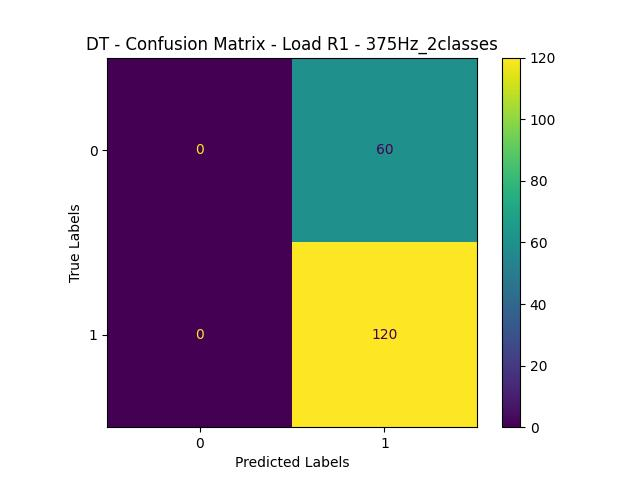
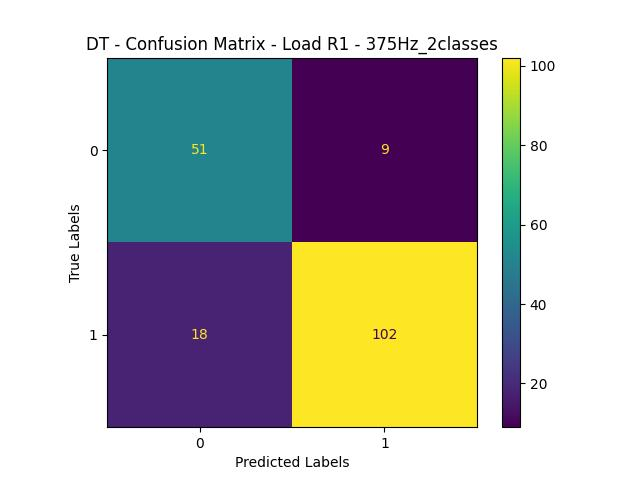
update

diff --git a/optimizers.py b/optimizers.py
@@ -28,15 +28,15 @@ label_encoder = LabelEncoder()
 fontsize = 12
 
 max_evals = 10
-n_optimization = 5000
+n_optimizations = 500
 path_res = 'results_curr'
 path_input = 'dataframes_curr'
 os.makedirs(path_res, exist_ok=True)
 
 
-def objective(params, x_opt, y_opt, alg, n_classes):
+def select_clf(alg, params, n_classes):
     if alg == 'DT':
-        params['max_depth'] = int(params['max_depth'])
+        # params['max_depth'] = int(params['max_depth'])
         clf = DecisionTreeClassifier(**params, random_state=0)
     elif alg == 'KNN':
         clf = KNeighborsClassifier(**params)
@@ -45,6 +45,12 @@ def objective(params, x_opt, y_opt, alg, n_classes):
             clf = LogisticRegression(**params, multi_class='multinomial', random_state=0)
         else:
             clf = LogisticRegression(**params, random_state=0)
+
+    return clf
+
+
+def objective(params, x_opt, y_opt, alg, n_classes):
+    clf = select_clf(alg, params, n_classes)
 
     kf = model_selection.StratifiedKFold(n_splits=10)
 
@@ -72,15 +78,16 @@ loads = ['R1', 'R2', 'R3',
          'R2_T1', 'R2_T2', 'R2_T3',
          'R3_T1', 'R3_T2', 'R3_T3']
 
-params_space = [
+params_spaces = [
     {
-        'max_depth': hp.quniform('max_depth', 1, 100, 1),
-        'max_features': hp.uniform('max_features', 0.01, 1),
-        'min_samples_split': hp.uniform('min_samples_split', 0.0, 1),
+        'max_depth': hp.randint('max_depth', 3, 100),
+        'max_features': hp.uniform('max_features', 0.001, 1),
+        'min_samples_split': hp.uniform('min_samples_split', 0.0001, 1),
         'min_weight_fraction_leaf': hp.uniform('min_weight_fraction_leaf', 0.0, 0.5),
-        'min_samples_leaf': hp.uniform('min_samples_leaf', 0.0, 1)
+        # 'min_samples_leaf': hp.uniform('min_samples_leaf', 0.0, 0.5),
+        # 'max_leaf_nodes': hp.randint('max_leaf_nodes', 20, 120)
     }, {
-        'n_neighbors': hp.randint('n_neighbors', 1, 100),
+        'n_neighbors': hp.randint('n_neighbors', 1, 60),
         'leaf_size': hp.randint('leaf_size', 3, 100),
         'p': hp.randint('p', 1, 5)
     }, {
@@ -152,26 +159,17 @@ for alg in algorithms:
                 acc_val_on_max_test = 0
                 best_params = {}
 
-                loop_opt = tqdm(np.arange(n_optimization))
-                for _ in loop_opt:
+                loop_opt = tqdm(np.arange(n_optimizations))
+                for iteration in loop_opt:
                     trials = Trials()
                     f = partial(objective, x_opt=X_val, y_opt=y_val, alg=alg, n_classes=n_classes)
-                    params = fmin(f, params_space[algorithms.index(alg)], algo=tpe.suggest, max_evals=max_evals,
+                    params = fmin(f, params_spaces[algorithms.index(alg)], algo=tpe.suggest, max_evals=max_evals,
                                   # rstate=np.random.RandomState(seed_value),
                                   show_progressbar=False,
                                   trials=trials,
                                   max_queue_len=int(max_evals / 5))
 
-                    if alg == 'DT':
-                        params['max_depth'] = int(params['max_depth'])
-                        clf = DecisionTreeClassifier(**params, random_state=0)
-                    elif alg == 'KNN':
-                        clf = KNeighborsClassifier(**params)
-                    if alg == 'LR':
-                        if n_classes > 2:
-                            clf = LogisticRegression(**params, multi_class='multinomial', random_state=0)
-                        else:
-                            clf = LogisticRegression(**params, random_state=0)
+                    clf = select_clf(alg, params, n_classes)
 
                     clf.fit(X_train, y_train)
                     p_train = clf.predict(X_train)
@@ -185,22 +183,35 @@ for alg in algorithms:
 
                     if acc_test > max_acc_test:
                         max_acc_test = acc_test
-                        loop_opt.set_postfix_str(f"Best test accuracy: {max_acc_test}")
+                        loop_opt.set_postfix_str(f"Best test accuracy: {max_acc_test} at iteration {iteration}")
                         best_params = params
                         acc_train_on_max_test = acc_train
                         acc_val_on_max_test = acc_val
+                        best_clf = clf
                     if acc_test > 0.99:
                         break
 
-                mean_train_accuracy += acc_train
-                mean_test_accuracy += acc_test
+                clf_final = select_clf(alg, best_params, n_classes)
 
-                print(f'Train accuracy: {round(acc_train_on_max_test * 100, 2)} %')
-                print(f'Val accuracy: {round(acc_val_on_max_test * 100, 2)} %')
-                print(f'Test accuracy: {round(max_acc_test * 100, 2)} %')
+                clf_final.fit(X_train, y_train)
+                p_train_final = clf_final.predict(X_train)
+                p_val_final = clf_final.predict(X_val)
+                p_test_final = clf_final.predict(X_test)
+
+                acc_train_final = metrics.accuracy_score(y_train, p_train_final)
+
+                acc_val_final = metrics.accuracy_score(y_val, p_val_final)
+                acc_test_final = metrics.accuracy_score(y_test, p_test_final)
+
+                mean_train_accuracy += acc_train_final
+                mean_test_accuracy += acc_test_final
+
+                print(f'Train accuracy: {round(acc_train_final * 100, 2)} %')
+                print(f'Val accuracy: {round(acc_val_final * 100, 2)} %')
+                print(f'Test accuracy: {round(acc_test_final * 100, 2)} %')
 
                 fig = plt.figure(dpi=500)
-                cm = confusion_matrix(y_test, p_test)
+                cm = confusion_matrix(y_test, p_test_final)
                 cm_display = ConfusionMatrixDisplay(cm).plot()
                 plt.title(f'{alg} - Confusion Matrix - Load {load} - {filename}')
                 plt.ylabel('True Labels')
@@ -211,8 +222,8 @@ for alg in algorithms:
 
                 if alg == 'DT':
                     fig = plt.figure(dpi=500)
-                    plot_tree(clf, filled=True, feature_names=dataset_test.columns.to_list(), class_names=class_names)
-                    plt.title(f"{alg} - Load {load} - {filename} - Accuracy: {round(acc_test * 100, 2)} %")
+                    plot_tree(clf_final, filled=True, feature_names=dataset_test.columns.to_list(), class_names=class_names)
+                    plt.title(f"{alg} - Load {load} - {filename} - Accuracy: {round(acc_test_final * 100, 2)} %")
                     path_alg_singleDf_plotsTree = path_alg_singleDf + '\\PlotsTree'
                     os.makedirs(path_alg_singleDf_plotsTree, exist_ok=True)
                     plt.savefig(f'{path_alg_singleDf_plotsTree}\\PlotTree_{load}_{filename}.jpg')
@@ -220,7 +231,7 @@ for alg in algorithms:
                     vet_val_feat_imp, vet_names_feat_imp = [], []
                     path_alg_singleDf_FeatImp = path_alg_singleDf + '\\Features Importance'
                     os.makedirs(path_alg_singleDf_FeatImp, exist_ok=True)
-                    for feat_num in range(len(clf.feature_importances_)):
+                    for feat_num in range(len(clf_final.feature_importances_)):
                         if clf.feature_importances_[feat_num] > 0:
                             vet_val_feat_imp.append(round(clf.feature_importances_[feat_num], 3))
                             vet_names_feat_imp.append(features_names[feat_num - 1])
@@ -239,14 +250,14 @@ for alg in algorithms:
                     plt.savefig(f'{path_alg_singleDf_FeatImp}\\FeatImp_{load}_{filename}.jpg')
 
                 if alg == 'DT':
-                    table_out.loc[loads.index(load)] = load, round(acc_train, 2), round(acc_test,
+                    table_out.loc[loads.index(load)] = load, round(acc_train_final, 2), round(acc_test_final,
                                                                                         2), best_params, dict_feat_imp
                 else:
-                    table_out.loc[loads.index(load)] = load, round(acc_train, 2), round(acc_test, 2), best_params
+                    table_out.loc[loads.index(load)] = load, round(acc_train_final, 2), round(acc_test_final, 2), best_params
 
-                plt.show()
+                # plt.show()
 
             print('\nMean train accuracy: ', round(mean_train_accuracy * 100 / len(loads), 2), ' %')
-            print('\nMean test accuracy: ', round(mean_test_accuracy * 100 / len(loads), 2), ' %')
+            print('Mean test accuracy: ', round(mean_test_accuracy * 100 / len(loads), 2), ' %')
             table_out.to_excel(f'{path_alg_singleDf}\\res_hyperopt.xlsx')
             table_out.to_pickle(f'{path_alg_singleDf}\\res_hyperopt.pkl')
